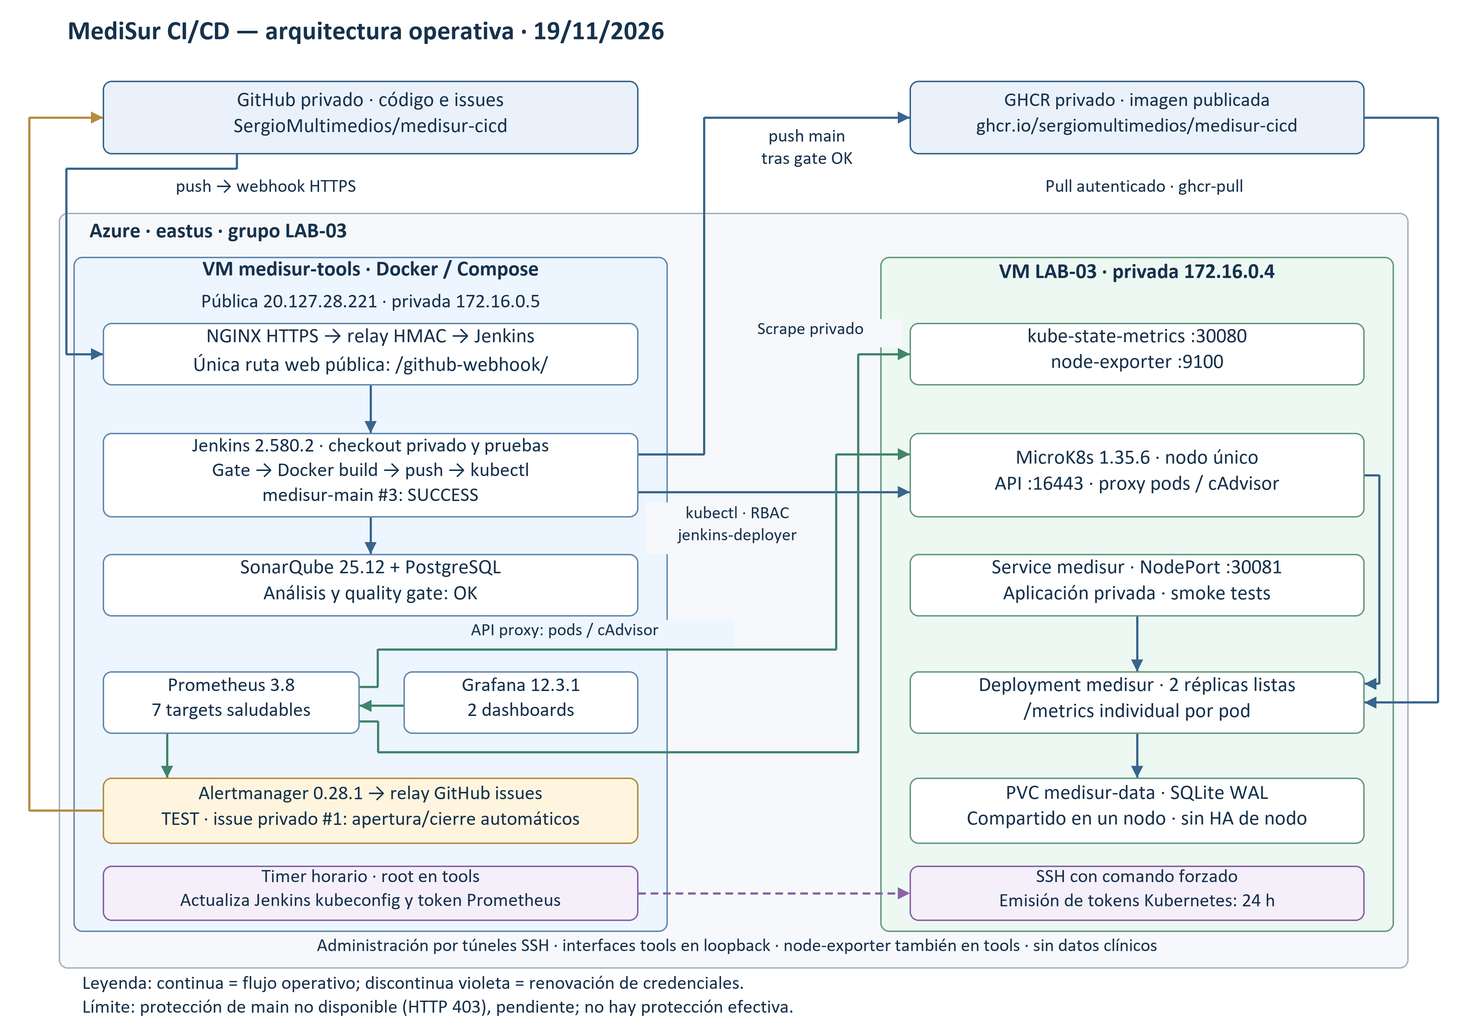
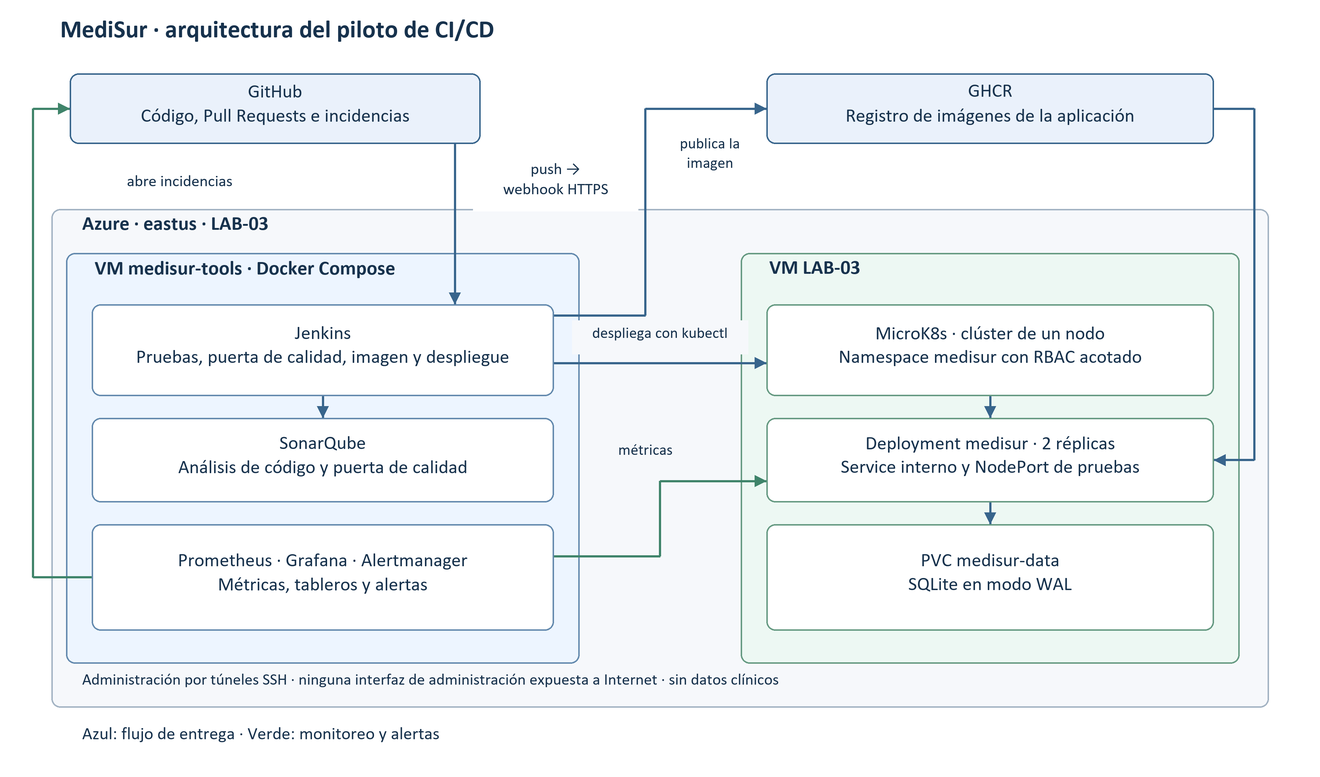
Verificar el job de ramas y corregir el diagrama, las cifras y el modelo declarado (#2)
* Corregir el modelo declarado y actualizar los pendientes del README

* Simplificar el diagrama de arquitectura y corregir las cifras del despliegue documentado

* Registrar la verificacion del job de ramas

* Alinear la verificacion del job de ramas en README y reporte

---------

diff --git a/scripts/render-report.py b/scripts/render-report.py
@@ -51,27 +51,25 @@ def check_secrets(text):
 def discover_evidence():
     descriptions = {
         "grafana-medisur-infrastructure.png": (
-            "Grafana, Medisur - Infrastructure: salud de targets, CPU, memoria, "
-            "disco, réplicas y reinicios en la ventana visible."),
+            "Grafana, tablero Medisur - Infrastructure: CPU, memoria y disco de las dos "
+            "máquinas virtuales."),
         "grafana-medisur-application.png": (
-            "Grafana, Medisur - Application: réplicas, inventario de versiones, "
-            "solicitudes, respuestas 5xx, latencia p95 y reinicios. "
-            "Las series históricas no equivalen a pods activos simultáneos."),
+            "Grafana, tablero Medisur - Application: réplicas listas contra deseadas, "
+            "versión por pod, peticiones por segundo, respuestas 5xx, latencia p95 y reinicios."),
         "jenkins-main-stages.png": (
-            "Jenkins, medisur-main: vista de etapas con la fila del build 3 en verde; "
-            "incluye las acciones posteriores de Declarative."),
+            "Jenkins, job medisur-main: vista de etapas del pipeline, todas en verde."),
         "jenkins-main-build-3.png": (
-            "Jenkins, medisur-main, build 3: indicador de éxito, artefactos de "
-            "cobertura y JUnit, revisión Git y pruebas sin fallos."),
+            "Jenkins, medisur-main build 3: resultado SUCCESS con los artefactos de "
+            "cobertura y JUnit y las 35 pruebas aprobadas."),
         "jenkins-quality-demo-tests.png": (
-            "Jenkins, medisur-quality-demo, build 2: 35 pruebas aprobadas, "
-            "cero fallos y cero omisiones; este resultado no acredita aprobar el gate."),
+            "Jenkins, medisur-quality-demo build 2: 35 pruebas aprobadas, cero fallos "
+            "y cero omisiones."),
         "sonar-medisur-quality-demo.png": (
-            "SonarQube, MediSur Quality Gate Demo: gate Failed (ERROR), "
-            "cobertura 37.7 %, inferior al mínimo de 60 %."),
+            "SonarQube, proyecto MediSur Quality Gate Demo: puerta en ERROR con 37.7 % "
+            "de cobertura frente al mínimo de 60 %."),
         "sonar-medisur-cicd.png": (
-            "SonarQube, Medisur Pilot API, main: gate Passed (OK), cobertura "
-            "93.9 % y mínimo de 60 %. El gate aprobado no implica ausencia de hallazgos."),
+            "SonarQube, proyecto Medisur Pilot API, rama main: puerta aprobada con "
+            "93.9 % de cobertura frente al mínimo de 60 %."),
     }
     files = {path.name: path for path in (DOCS / "evidence").glob("*.png")}
     if files.keys() - descriptions.keys():
@@ -90,9 +88,7 @@ def discover_evidence():
         date = datetime.fromtimestamp(modified / 1_000_000_000, timezone.utc)
         caption = (
             f"Figura {len(evidence) + 2}. {description} "
-            f"Fuente: docs/evidence/{name}. "
-            f"Última modificación del archivo: {date:%Y-%m-%d %H:%M:%S} UTC "
-            "(metadato local; no certifica la hora de captura)."
+            f"Fuente: docs/evidence/{name}."
         )
         evidence.append({"path": path, "data": data, "modified": modified, "caption": caption})
     return evidence
@@ -316,7 +312,7 @@ def create_document(markdown, png, destination, created, evidence=()):
     document.core_properties.modified = document.core_properties.created
     document.core_properties.author = ""
     document.core_properties.title = "MediSur: piloto de integración y despliegue continuo"
-    document.core_properties.subject = "Cómputo en la Nube; evidencias y pendientes conservados del Markdown"
+    document.core_properties.subject = "Cómputo en la Nube · Caso MediSur, S.A. de C.V."
     update = OxmlElement("w:updateFields")
     update.set(qn("w:val"), "true")
     document.settings.element.append(update)
@@ -427,8 +423,8 @@ def create_document(markdown, png, destination, created, evidence=()):
                 document.add_picture(str(png), width=Cm(17))
                 document.paragraphs[-1].alignment = WD_ALIGN_PARAGRAPH.CENTER
                 caption = document.add_paragraph(
-                    "Figura 1. Arquitectura informada y flujos previstos; no acredita operación en vivo. "
-                    "Diagrama editable: architecture.drawio.", style="Caption")
+                    "Figura 1. Arquitectura del piloto. El flujo de entrega se lee de izquierda a derecha "
+                    "y el de monitoreo en sentido inverso. Diagrama editable: docs/architecture.drawio.", style="Caption")
                 caption.paragraph_format.keep_with_next = False
                 architecture_count += 1
             else:

diff --git a/docs/reporte.md b/docs/reporte.md
@@ -15,10 +15,10 @@ Integrantes y roles:
 
 | Integrante | Matrícula | Rol en el equipo |
 | --- | --- | --- |
-| [completar] | [completar] | Infraestructura en Azure |
-| [completar] | [completar] | Pipeline y calidad |
-| [completar] | [completar] | Aplicación y pruebas |
-| [completar] | [completar] | Monitoreo y documentación |
+| Diego Garza Avalos | 2066114 | Infraestructura en Azure |
+| Sergio Guillermo Navarro Ayala | 2069392 | Pipeline y calidad |
+| Luis Andrés Salinas Lozano | 2277561 | Aplicación y pruebas |
+| Andrés Monsiváis Salazar | 2066077 | Monitoreo y documentación |
 
 El video de respaldo de 10 a 15 minutos queda [completar].
 
@@ -34,46 +34,38 @@ La aplicación del piloto es una API pequeña en Python con Flask. Expone `GET /
 
 ```mermaid
 flowchart LR
-    repo["GitHub: SergioMultimedios/medisur-cicd"]
-    ghcr["GHCR: ghcr.io/sergiomultimedios/medisur-cicd"]
+    github["GitHub: codigo, Pull Requests e incidencias"]
+    ghcr["GHCR: registro de imagenes"]
     subgraph azure["Azure eastus / grupo de recursos LAB-03"]
-        subgraph tools["medisur-tools / 172.16.0.5 / pública 20.127.28.221"]
-            jenkins["Jenkins 2.580.2"]
-            sonar["SonarQube + PostgreSQL"]
-            prom["Prometheus 3.8.0"]
-            grafana["Grafana 12.3.1"]
-            alerts["Alertmanager + relay de incidencias"]
+        subgraph tools["VM medisur-tools / Docker Compose"]
+            jenkins["Jenkins: pruebas, imagen y despliegue"]
+            sonar["SonarQube: analisis y puerta de calidad"]
+            monitoring["Prometheus, Grafana y Alertmanager"]
         end
-        subgraph lab["VM LAB-03 / 172.16.0.4 / pública 52.151.192.168"]
-            api["MicroK8s 1.35.6 / API 16443"]
-            service["Service medisur / NodePort 30081"]
-            pods["Deployment medisur / 2 réplicas"]
-            pvc["PVC medisur-data / SQLite WAL"]
-            metrics["kube-state-metrics 30080 / node_exporter 9100"]
+        subgraph lab["VM LAB-03"]
+            cluster["MicroK8s: cluster de un nodo"]
+            app["Deployment medisur: 2 replicas"]
+            pvc["PVC medisur-data: SQLite WAL"]
         end
     end
-    repo -->|webhook HTTPS y checkout| jenkins
-    jenkins -->|análisis y puerta de calidad| sonar
-    jenkins -->|publicación de main| ghcr
-    ghcr -->|descarga autenticada| pods
-    jenkins -->|jenkins-deployer| api
-    api -->|rollout| pods
-    service --> pods
-    pods --> pvc
-    prom -->|scrape por pod vía API| api
-    prom -->|scrape privado| metrics
-    grafana -->|consultas| prom
-    prom -->|alertas| alerts
-    alerts -->|incidencias| repo
+    github -->|push, webhook HTTPS| jenkins
+    jenkins --> sonar
+    jenkins -->|publica la imagen| ghcr
+    jenkins -->|despliega con kubectl| cluster
+    ghcr --> app
+    cluster --> app
+    app --> pvc
+    monitoring -->|metricas| app
+    monitoring -->|abre incidencias| github
 ```
 
 El diagrama se lee de izquierda a derecha siguiendo el camino de un cambio. Un push al repositorio en GitHub llega por webhook HTTPS a Jenkins, que corre en la VM `medisur-tools`. Jenkins ejecuta las pruebas, manda el código y el informe de cobertura a SonarQube y espera el resultado de la puerta de calidad. Si la puerta aprueba y la rama es `main`, construye la imagen, la publica en GitHub Container Registry y aplica el despliegue en el clúster de MicroK8s que vive en la VM `LAB-03`. El clúster descarga la imagen desde el registro con una credencial propia y hace la actualización gradual del Deployment.
 
-El bloque inferior derecho es el clúster. Las dos réplicas del Deployment reciben tráfico por un Service ClusterIP y, para pruebas desde la red privada, por un Service NodePort en el puerto 30081. Ambas réplicas comparten el PersistentVolumeClaim `medisur-data`, donde SQLite guarda los datos en modo WAL.
+La columna derecha es el clúster. El Deployment mantiene dos réplicas que reciben tráfico por un Service ClusterIP y, para pruebas desde la red privada, por un Service NodePort en el puerto 30081. Ambas réplicas comparten el PersistentVolumeClaim `medisur-data`, donde SQLite guarda los datos en modo WAL.
 
-Las flechas de monitoreo van en sentido contrario al del despliegue. Prometheus, también en `medisur-tools`, consulta las métricas de los dos pods uno por uno a través del servidor de API del clúster, además de `kube-state-metrics`, `cAdvisor` y el `node_exporter` de cada VM. Grafana consulta a Prometheus y Prometheus manda las alertas a Alertmanager, que a su vez las entrega a un servicio propio que abre y cierra incidencias en el mismo repositorio donde está el código.
+Las flechas verdes son el monitoreo y van en sentido contrario al de la entrega. Prometheus, Grafana y Alertmanager corren juntos en `medisur-tools`. Prometheus consulta las métricas de los dos pods uno por uno a través del servidor de API del clúster, además de `kube-state-metrics`, `cAdvisor` y el `node_exporter` de cada VM. Grafana consulta a Prometheus y Prometheus manda las alertas a Alertmanager, que a su vez las entrega a un servicio propio que abre y cierra incidencias en el mismo repositorio donde está el código.
 
-Convenciones del diagrama: los dos rectángulos interiores son máquinas virtuales y el rectángulo exterior es el grupo de recursos de Azure; los nodos de fuera —GitHub y GHCR— son servicios administrados que no corren en nuestra suscripción; las etiquetas sobre las flechas indican el protocolo o el mecanismo de la conexión, y las direcciones IP privadas que aparecen en los encabezados son estáticas.
+Convenciones del diagrama: los dos rectángulos interiores son máquinas virtuales y el rectángulo exterior es el grupo de recursos de Azure; los nodos de fuera —GitHub y GHCR— son servicios administrados que no corren en nuestra suscripción; el azul marca el flujo de entrega y el verde el de monitoreo. Las versiones de cada componente están en la sección 4 y sus direcciones en la sección 5.
 
 El diagrama editable está en `docs/architecture.drawio`, por si hay que modificarlo sin regenerar el documento completo.
 
@@ -140,9 +132,9 @@ La publicación y el despliegue ocurren únicamente en `main`. Las credenciales 
 
 La rama `main` está protegida en GitHub: exige Pull Request con una aprobación, descarta las aprobaciones obsoletas cuando llegan commits nuevos, prohíbe el force push y el borrado de la rama, obliga a historial lineal y pide que las conversaciones queden resueltas antes de integrar. La regla todavía no se aplica a administradores, así que la disciplina de abrir Pull Request depende en parte del acuerdo del equipo.
 
-Para las ramas de funcionalidad existe el job `medisur-branches`, que responde a la expresión `origin/(?!main$).*`. Ejecuta pruebas y análisis contra un proyecto de Sonar aparte y no publica imagen ni despliega. Está configurado y su primera ejecución con un push real de rama queda pendiente.
+Para las ramas de funcionalidad existe el job `medisur-branches`, que responde a la expresión `origin/(?!main$).*`. Ejecuta pruebas y análisis contra un proyecto de Sonar aparte y no publica imagen ni despliega. Se verificó con la rama `prueba-ramas`: el webhook de GitHub disparó la ejecución con el push y las cuatro etapas del job —checkout, pruebas con cobertura, análisis de Sonar y puerta de calidad— terminaron en `SUCCESS` en 33 segundos, sin publicar imagen ni tocar el clúster.
 
-El último despliegue verificado corresponde al commit `ddb22beb209e6132e5b72b03b7e206e15265d6c2`, versión `0.1.0-ddb22beb`, con fecha de construcción `2026-11-19T20:12:03Z`. Fue el build 5 de `medisur-main`, terminó en `SUCCESS` con 77 segundos de duración, dejó dos réplicas listas y `/version` devolvió ese mismo commit. Los dos builds anteriores también terminaron bien: el build 4 en 76 segundos y el build 3 en 112 segundos con las 35 pruebas aprobadas.
+El despliegue que queda documentado en las evidencias es el build 3 de `medisur-main`, que terminó en `SUCCESS` con 112 segundos de duración y las 35 pruebas aprobadas. La versión en servicio durante esa validación fue `0.1.0-f04534bb54d0`, visible tanto en las métricas de Prometheus como en el análisis de SonarQube. Los dos builds anteriores del mismo job también terminaron en `SUCCESS`.
 
 El script `scripts/deploy.sh` es el que aplica el cambio en el clúster. Comprueba que la imagen, la etiqueta y el SHA coincidan, hace un dry-run contra el servidor, aplica el manifiesto y espera el rollout. Si el rollout no termina, ejecuta `kubectl rollout undo` por su cuenta y deja el build en fallido, de modo que una reversión exitosa nunca se confunde con un despliegue exitoso.
 
@@ -154,7 +146,7 @@ De la infraestructura vigilamos CPU, memoria y disco de las dos máquinas virtua
 
 Los dos tableros de Grafana tienen datos reales. El de infraestructura concentra CPU, memoria y disco de `medisur-tools` y de `LAB-03`. El de aplicación muestra réplicas listas contra deseadas, el inventario de versión por pod, peticiones por segundo, respuestas 5xx, latencia p95, reinicios, y consumo de CPU y memoria de cada pod. El panel de versión por pod es el que usamos para confirmar a simple vista que una actualización gradual terminó: durante el rollout aparecen dos versiones y al final queda una sola.
 
-Las tres alertas configuradas son:
+Las tres alertas del servicio son:
 
 | Alerta | Condición | Primera acción |
 | --- | --- | --- |
@@ -166,15 +158,15 @@ Las alertas llegan a Alertmanager y de ahí a un servicio propio que abre una in
 
 ## 8. Uso de inteligencia artificial
 
-Usamos Cortex Code con el modelo `openai-gpt-6-astra` como apoyo durante el proyecto. Participó en la configuración de las herramientas, en la escritura de scripts y manifiestos, y en la redacción de este documento. Todo lo que entregó pasó por revisión del equipo antes de quedarse, y las cifras del reporte provienen de ejecuciones reales, no del asistente.
+Usamos Cortex Code con el modelo `claude-opus-5` como apoyo durante el proyecto. Participó en la configuración de las herramientas, en la escritura de scripts y manifiestos, y en la redacción de este documento. Todo lo que entregó pasó por revisión del equipo antes de quedarse, y las cifras del reporte provienen de ejecuciones reales, no del asistente.
 
 | Dónde se usó | Herramienta | Qué se pidió | Qué devolvió | Qué se corrigió | Justificación |
 | --- | --- | --- | --- | --- | --- |
-| Configuración de las herramientas | Cortex Code (`openai-gpt-6-astra`) | Un Compose con Jenkins, SonarQube, PostgreSQL, Prometheus y Grafana, con los puertos de administración cerrados a Internet | Los servicios con sus volúmenes y puertos publicados en `127.0.0.1` | Fijamos las imágenes por digest y pasamos las contraseñas a secretos de Compose en lugar de variables de entorno | Levantar cinco servicios a mano nos habría llevado el tiempo que necesitábamos para el pipeline |
-| Aplicación y pruebas | Cortex Code (`openai-gpt-6-astra`) | La API con los seis endpoints, SQLite con WAL y pruebas unitarias | La aplicación con sus pruebas y el Dockerfile de dos etapas | Agregamos la distinción entre `/health` y `/ready`, acotamos las etiquetas de `/metrics` por ruta y ajustamos la validación de entrada | Nos permitió concentrarnos en el proceso de entrega, que es lo que el caso pide demostrar |
-| Pipeline y scripts | Cortex Code (`openai-gpt-6-astra`) | El Jenkinsfile con sus etapas y el script de despliegue con reversión | El pipeline declarativo y `deploy.sh` con dry-run, espera de rollout y reversión | Añadimos el dry-run antes de tocar el clúster, el entrecomillado de los valores inyectados en el manifiesto y la condición de que publicar y desplegar solo pase en `main` | La reversión automática es el punto donde un error de guion se vuelve una caída, así que lo revisamos línea por línea |
-| Monitoreo | Cortex Code (`openai-gpt-6-astra`) | Reglas de alerta, los dos tableros y el servicio que abre incidencias | Las reglas, los tableros en JSON y el servicio con su estado en SQLite | Cambiamos el descubrimiento de métricas al servidor de API para separar los pods y agregamos las pruebas de `promtool` | Sin pruebas, una regla mal escrita se descubre el día que debía dispararse |
-| Documentación | Cortex Code (`openai-gpt-6-astra`) | Redactar el reporte con los datos verificados del proyecto | Este documento | Ajustamos la redacción y verificamos cada cifra contra los archivos del proyecto | El equipo responde por el contenido y puede explicar cada decisión |
+| Configuración de las herramientas | Cortex Code (`claude-opus-5`) | Un Compose con Jenkins, SonarQube, PostgreSQL, Prometheus y Grafana, con los puertos de administración cerrados a Internet | Los servicios con sus volúmenes y puertos publicados en `127.0.0.1` | Fijamos las imágenes por digest y pasamos las contraseñas a secretos de Compose en lugar de variables de entorno | Levantar cinco servicios a mano nos habría llevado el tiempo que necesitábamos para el pipeline |
+| Aplicación y pruebas | Cortex Code (`claude-opus-5`) | La API con los seis endpoints, SQLite con WAL y pruebas unitarias | La aplicación con sus pruebas y el Dockerfile de dos etapas | Agregamos la distinción entre `/health` y `/ready`, acotamos las etiquetas de `/metrics` por ruta y ajustamos la validación de entrada | Nos permitió concentrarnos en el proceso de entrega, que es lo que el caso pide demostrar |
+| Pipeline y scripts | Cortex Code (`claude-opus-5`) | El Jenkinsfile con sus etapas y el script de despliegue con reversión | El pipeline declarativo y `deploy.sh` con dry-run, espera de rollout y reversión | Añadimos el dry-run antes de tocar el clúster, el entrecomillado de los valores inyectados en el manifiesto y la condición de que publicar y desplegar solo pase en `main` | La reversión automática es el punto donde un error de guion se vuelve una caída, así que lo revisamos línea por línea |
+| Monitoreo | Cortex Code (`claude-opus-5`) | Reglas de alerta, los dos tableros y el servicio que abre incidencias | Las reglas, los tableros en JSON y el servicio con su estado en SQLite | Cambiamos el descubrimiento de métricas al servidor de API para separar los pods y agregamos las pruebas de `promtool` | Sin pruebas, una regla mal escrita se descubre el día que debía dispararse |
+| Documentación | Cortex Code (`claude-opus-5`) | Redactar el reporte con los datos verificados del proyecto | Este documento | Ajustamos la redacción y verificamos cada cifra contra los archivos del proyecto | El equipo responde por el contenido y puede explicar cada decisión |
 
 No usamos el asistente para fabricar capturas, resultados de pipeline, importes de facturación ni nombres de integrantes.
 
@@ -196,7 +188,7 @@ Los registros en JSON guardan los resultados de las pruebas de comportamiento: `
 
 ### Pruebas
 
-La cobertura combinada de la aplicación es 93.94 %, con 77.78 % de cobertura de ramas, sobre 35 pruebas unitarias. La suite local completa suma 99 pruebas de Python —35 de la aplicación, 8 de la configuración de las herramientas, 39 del relay de alertas, 9 del receptor de webhook y 8 de la renovación de credenciales— más 10 escenarios simulados del script de despliegue.
+La cobertura combinada de la aplicación es 93.94 %, con 77.78 % de cobertura de ramas, sobre 35 pruebas unitarias. La suite local completa suma 99 pruebas de Python —35 de la aplicación, 8 de la configuración de las herramientas, 39 del relay de alertas, 9 del receptor de webhook y 8 de la renovación de credenciales— más 9 escenarios simulados del script de despliegue.
 
 ### La puerta de calidad detiene el pipeline
 
@@ -265,7 +257,7 @@ Falta conciliar los cargos de la VM de herramientas cuando Azure los refleje, y 
 
 ## 12. Conclusiones y lecciones aprendidas
 
-El piloto deja demostrada la cadena completa: un push a `main` pasó por pruebas, análisis, puerta de calidad, construcción, publicación y despliegue en 77 segundos, y `/version` devolvió el mismo commit que se había empujado. El proceso tarda menos de dos minutos y permite responder en cualquier momento qué código está corriendo.
+El piloto deja demostrada la cadena completa: un push a `main` pasó por pruebas, análisis, puerta de calidad, construcción, publicación y despliegue en 112 segundos, y `/version` devolvió el mismo commit que se había empujado. El proceso tarda menos de dos minutos y permite responder en cualquier momento qué código está corriendo.
 
 Las pruebas de comportamiento fueron las que más nos enseñaron. Probamos el pipeline en sus dos resultados posibles: la puerta rechazó código con 37.7 % de cobertura aunque las 35 pruebas pasaran, y el despliegue de una imagen inexistente terminó con el Deployment de vuelta en la versión que servía, sin intervención manual. Diseñar esas pruebas nos tomó más tiempo que armar el camino exitoso.
 
@@ -273,7 +265,7 @@ El umbral de cobertura quedó en 60 %, por debajo del 93.94 % que mide la aplica
 
 El piloto tiene límites claros. El clúster tiene un solo nodo, así que las dos réplicas protegen contra la caída de un pod, no contra la de la máquina. El PVC funciona como almacenamiento, sin respaldo ni restauración probada. La reversión devuelve el Deployment y deja la base de datos como está. El monitoreo vive en la misma VM que vigila, y si esa máquina se detiene se pierde la visibilidad hasta que vuelva. Llevar esto a un servicio clínico real pediría al menos un segundo nodo, respaldo con restauración probada y una revisión de los permisos que hoy tiene el pipeline.
 
-Quedan pendientes tres cosas de la entrega: los nombres y roles de los integrantes, el video de respaldo de 10 a 15 minutos, y la primera ejecución del job `medisur-branches` con un push real de rama. Y las dos desviaciones a confirmar con el docente: el disco de 30 GB del clúster y su Ubuntu 24.04.
+Quedan dos desviaciones por confirmar con el docente: el disco de 30 GB del clúster y su sistema operativo Ubuntu 24.04 en lugar de 22.04.
 
 ## 13. Anexos
 

diff --git a/README.md b/README.md
@@ -72,7 +72,7 @@ El segundo comando crea o reutiliza un volumen nombrado, que sobrevive al borrad
 
 `Jenkinsfile` ejecuta pruebas, análisis Sonar, quality gate, construcción de imagen y publicación en GHCR, y despliega únicamente desde `main`. Requiere un ejecutor Linux con la etiqueta `medisur-ci` y Docker, Bash, kubectl, curl y jq disponibles. Usa las credenciales `ghcr`, `sonar-token`, `sonarqube-webhook-secret` y `medisur-kubeconfig`, además de la credencial de checkout. La instalación de SonarQube se llama `SonarQube` tanto en el `Jenkinsfile` como en la configuración JCasC. El gate exige cobertura mínima de 60 %.
 
-El job `medisur-branches` cubre las ramas distintas de `main` con el regex `origin/(?!main$).*`, un proyecto Sonar separado y sin publicación ni despliegue. Está configurado mediante `scripts/configure-feature-ci.py`.
+El job `medisur-branches` cubre las ramas distintas de `main` con el regex `origin/(?!main$).*`, un proyecto Sonar separado y sin publicación ni despliegue. Está configurado mediante `scripts/configure-feature-ci.py`. Se verificó contra la rama `prueba-ramas`: el webhook disparó la ejecución con el push y las cuatro etapas —checkout, pruebas con cobertura, análisis de Sonar y puerta de calidad— terminaron en verde en 33 segundos.
 
 Jenkins corre la versión 2.580.2 con 85 plugins fijados en `infra/tools/jenkins/plugins.txt`; el cotejo del controlador en ejecución los reporta activos y con las versiones exactas del manifiesto.
 
@@ -232,12 +232,10 @@ docs/                     Reporte, diagramas y evidencias
 - [`docs/live-validation.json`](docs/live-validation.json): validación de pruebas, Sonar y monitoreo.
 - [`docs/evidence/`](docs/evidence/): capturas de Jenkins, SonarQube y Grafana.
 
-La documentación y la preparación se asistieron con Cortex Code, modelo `openai-gpt-6-astra`. La [declaración de uso de IA](docs/reporte.md#8-declaración-de-uso-de-inteligencia-artificial) delimita esa asistencia frente a la revisión humana.
+La documentación y la preparación se asistieron con Cortex Code, modelo `claude-opus-5`. La [declaración de uso de IA](docs/reporte.md#8-declaración-de-uso-de-inteligencia-artificial) delimita esa asistencia frente a la revisión humana.
 
 ## Pendientes
 
-- Nombres y roles de los integrantes del equipo.
 - Video de respaldo de 10 a 15 minutos.
-- Primera ejecución real del job de ramas `medisur-branches` con un push de rama.
 - Confirmación docente del disco de 30 GB del clúster y de Ubuntu 24.04.
 - Conciliación final de costos, sujeta a la latencia de facturación de Azure.
